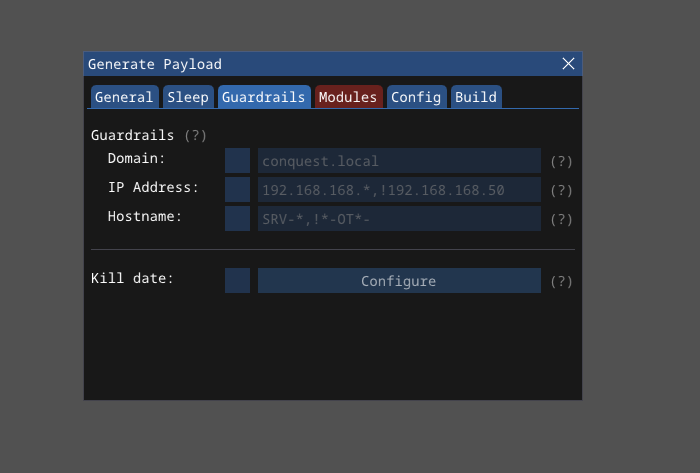
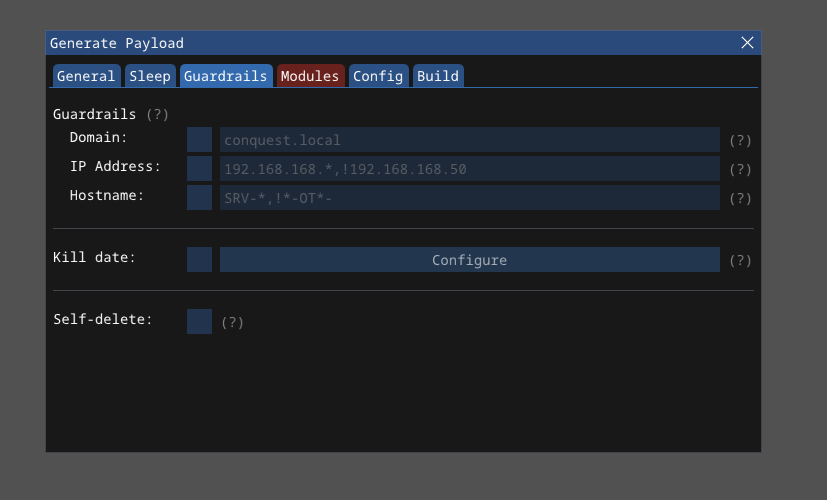
Implemented self delete option for when agent terminates due to guardrails.

diff --git a/docs/6-AGENT.md b/docs/6-AGENT.md
@@ -102,6 +102,8 @@ All text-based guardrail patterns support wildcards (`*` to match any sequence o
 | IP Address | Text input | Restrict execution to hosts whose IP address matches one of the comma-separated patterns provided. |
 | Hostname | Text input | Restrict execution to hosts whose hostname matches one of the comma-separated patterns provided. |
 | Kill date | Date & Time | Terminate the agent when the configured UTC date and time is reached. |
+| Self-delete | Boolean | Delete the agent from disk when a guardrail condition is met or the kill date is reached. |
+
 
 ![Guardrail Settings](../assets/agent-9.png)
 
@@ -139,9 +141,10 @@ The JSON files have the following layout and keys:
 | `jitter` | Jitter percentage (0–100). |
 | `sleepMask` | Sleep obfuscation technique (e.g. `EKKO`). |
 | `spoofStack` | `true` or `false`. |
+| `workingHours` | Object containing `startHour`, `startMinute`, `endHour`, `endMinute`, or empty if not set. |
 | `guardrails` | Object containing optional `domain`, `ip`, and `hostname` pattern strings. |
 | `killDate` | Unix timestamp (UTC) of the kill date, or `0` if not set. |
-| `workingHours` | Object containing `startHour`, `startMinute`, `endHour`, `endMinute`, or empty if not set. |
+| `selfDelete` | `true` or `false` |
 | `modules` | Array of module name strings selected for the build. |
 
 Example: 
@@ -156,12 +159,13 @@ Example:
   "jitter": 15,
   "sleepMask": "EKKO",
   "spoofStack": true,
+  "workingHours": {},
   "guardrails": {
     "ip": "10.0.5.*",
     "hostname": "!DC01"
   },
   "killDate": 1780531200,
-  "workingHours": {},
+  "selfDelete": false,
   "modules": [
     "bof",
     "dll",